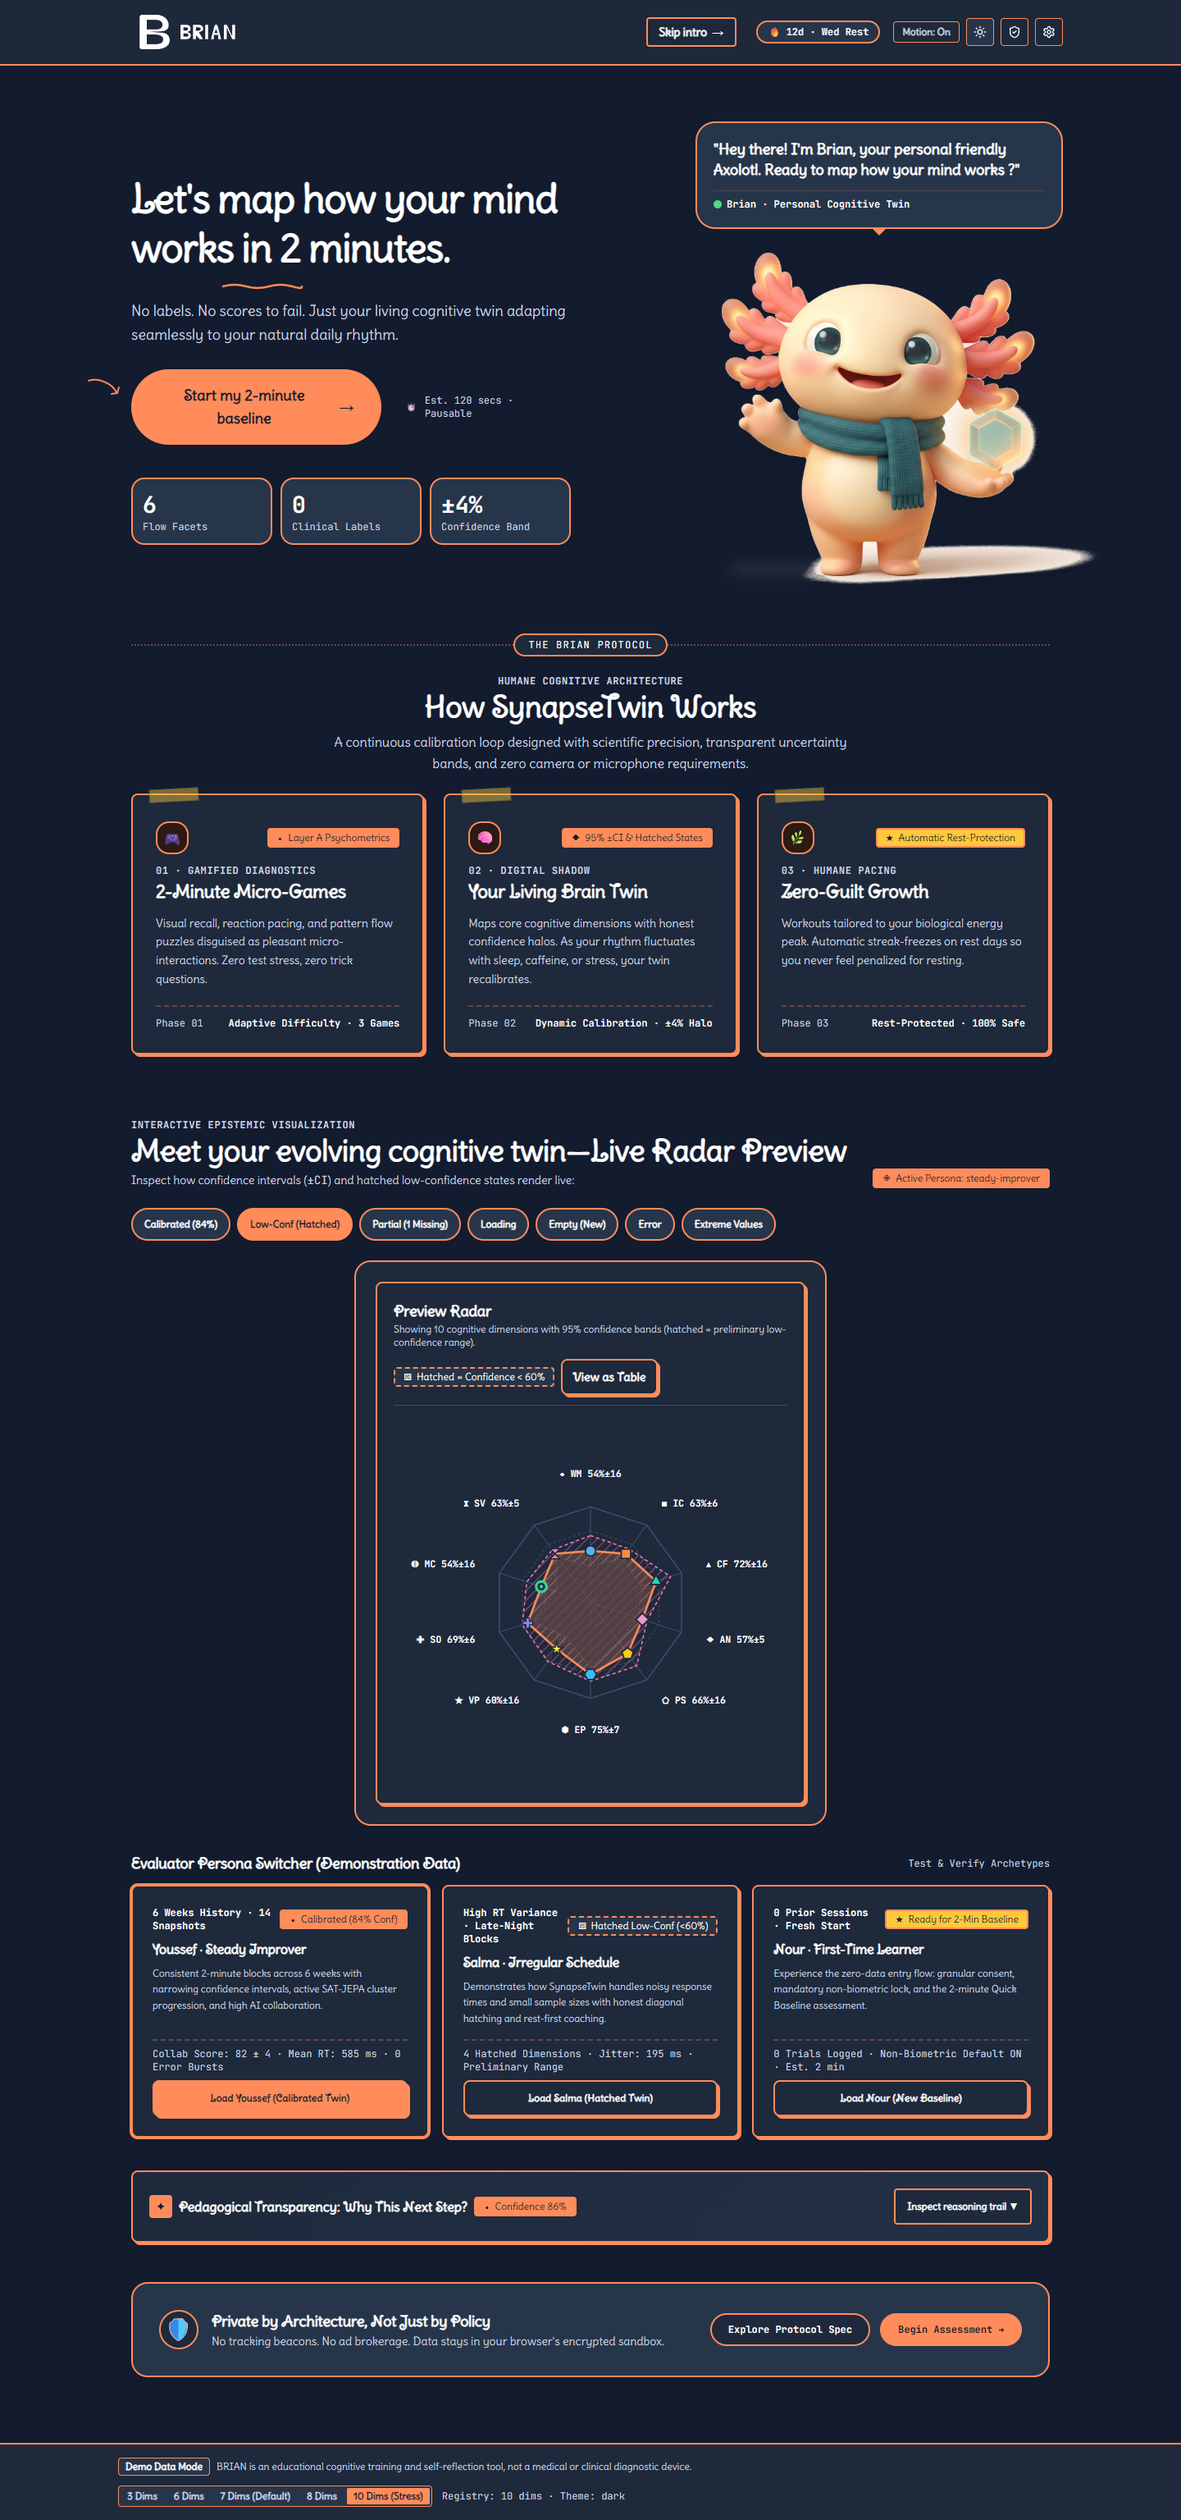
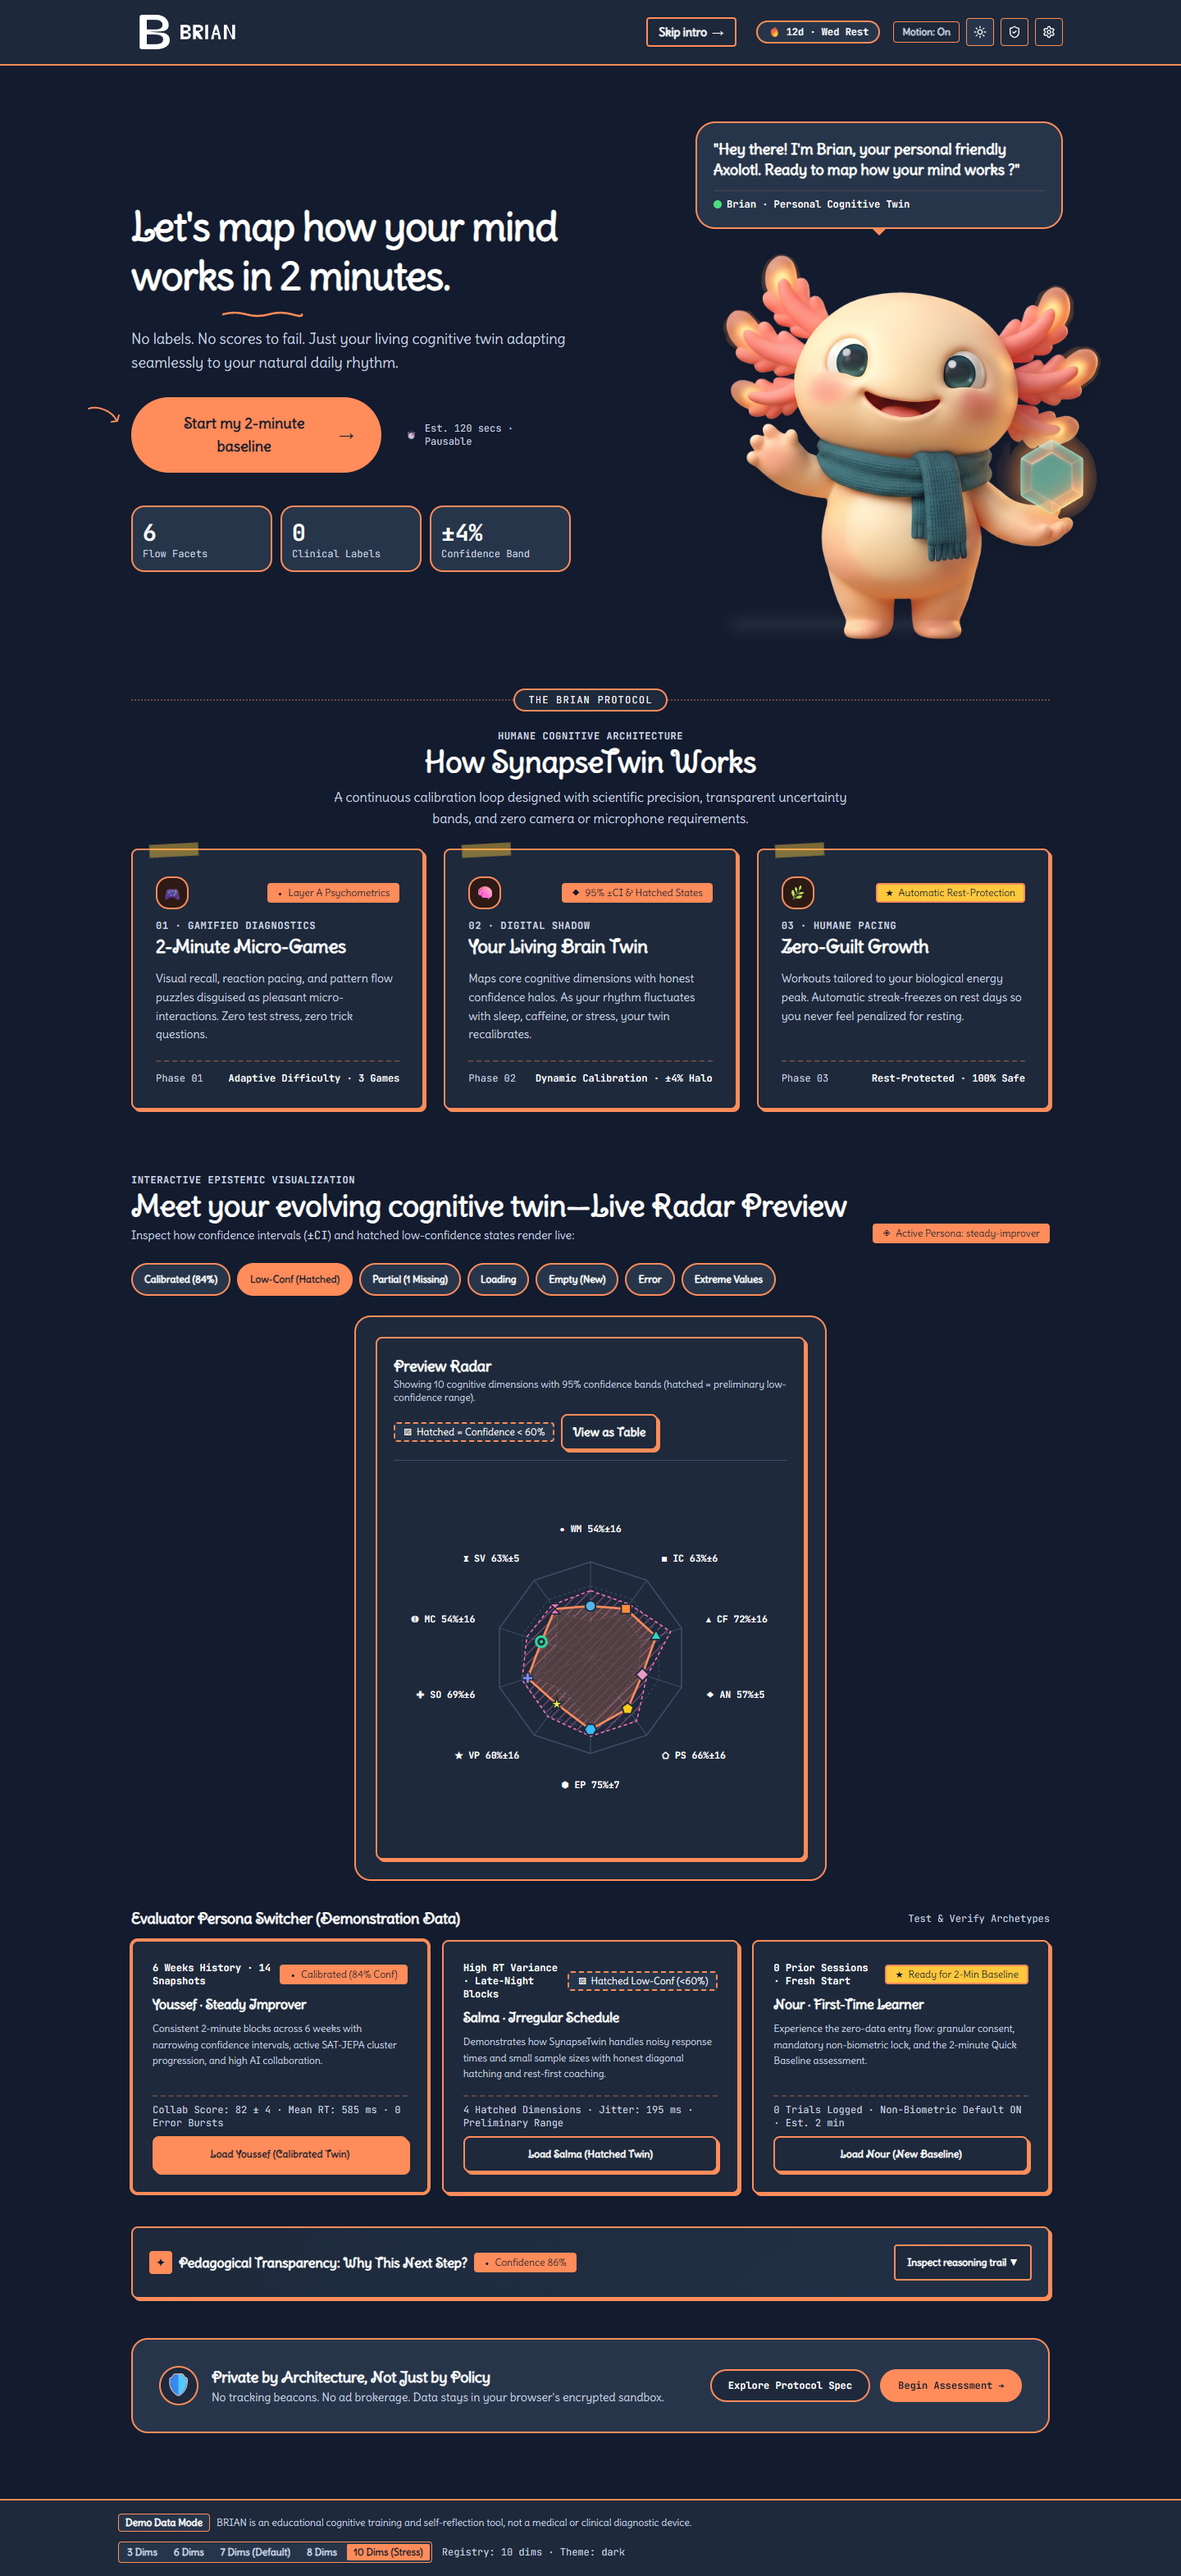
feat(mascot): switch to brian-waving-darkmode.png in dark mode across hero and mascot components

diff --git a/frontend/src/components/brand/BrianMascot.tsx b/frontend/src/components/brand/BrianMascot.tsx
@@ -1,4 +1,5 @@
 import React from 'react'
+import { useAppStore } from '../../store/useAppStore'
 
 export type BrianPose =
   | 'waving'
@@ -60,6 +61,12 @@ const POSE_IMAGE_MAP: Record<string, string> = {
   curious: '/mascot/brian-explorer.png',
 }
 
+const POSE_IMAGE_MAP_DARK: Record<string, string> = {
+  waving: '/mascot/brian-waving-darkmode.png',
+  hello: '/mascot/brian-waving-darkmode.png',
+  idle: '/mascot/brian-waving-darkmode.png',
+}
+
 const POSE_ALT_MAP: Record<string, string> = {
   waving: 'Cute friendly pink and sky-blue axolotl mascot named Brian waving cheerfully with one fin hand',
   celebrating: 'Cute ecstatic celebratory axolotl mascot named Brian jumping for joy with floating confetti and victory celebration',
@@ -100,8 +107,13 @@ export const BrianMascot: React.FC<BrianMascotProps> = ({
   alt,
   onClick,
 }) => {
+  const { theme } = useAppStore()
   const normalizedPose = POSE_IMAGE_MAP[pose] ? pose : 'waving'
-  const imageSrc = POSE_IMAGE_MAP[normalizedPose] || '/mascot/brian-waving.png'
+  const isDark = theme === 'dark'
+  const imageSrc =
+    isDark && POSE_IMAGE_MAP_DARK[normalizedPose]
+      ? POSE_IMAGE_MAP_DARK[normalizedPose]
+      : POSE_IMAGE_MAP[normalizedPose] || (isDark ? '/mascot/brian-waving-darkmode.png' : '/mascot/brian-waving.png')
   const altText = alt || POSE_ALT_MAP[normalizedPose] || 'Brian the Axolotl mascot'
   const effectiveSize = scale ?? size ?? 'md'
   const pixelSize = typeof effectiveSize === 'number' ? effectiveSize : SIZE_MAP[effectiveSize] || 96

diff --git a/frontend/src/pages/WelcomePage.tsx b/frontend/src/pages/WelcomePage.tsx
@@ -13,6 +13,7 @@ import { Button } from '../components/ui/Button'
 import { Card } from '../components/ui/Card'
 import { DoodleSquiggle, DoodleArrow } from '../components/ui/DoodleDecorations'
 import brianWavingImg from '../assets/mascot/brian-waving.png'
+import brianWavingDarkModeImg from '../assets/mascot/brian-waving-darkmode.png'
 
 type HeroPreviewState =
   | 'calibrated'
@@ -123,6 +124,7 @@ export default function WelcomePage() {
     dimensionPreset,
     activePersona,
     setActivePersona,
+    theme,
   } = useAppStore()
 
   const [previewState, setPreviewState] = useState<HeroPreviewState>('calibrated')
@@ -285,7 +287,7 @@ export default function WelcomePage() {
 
               {/* Scaled-Up Mascot directly on canvas */}
               <img
-                src={brianWavingImg}
+                src={theme === 'dark' ? brianWavingDarkModeImg : brianWavingImg}
                 alt="Brian the Axolotl mascot waving cheerfully"
                 style={{ transform: 'translate(100px, 25px)' }}
                 className="w-full max-w-[360px] sm:max-w-[420px] lg:max-w-[480px] h-auto object-contain drop-shadow-xl select-none transition-transform duration-300 hover:scale-105"

diff --git a/frontend/src/components/signature/NodiCompanion.tsx b/frontend/src/components/signature/NodiCompanion.tsx
@@ -121,7 +121,8 @@ export function NodiCompanion({
   ariaHidden = false,
   showSpeechBubble = true,
 }: NodiCompanionProps) {
-  const { reducedMotion } = useAppStore()
+  const { reducedMotion, theme } = useAppStore()
+  const isDark = theme === 'dark'
 
   if (state === 'hidden') {
     return (
@@ -193,9 +194,12 @@ export function NodiCompanion({
           aria-hidden="true"
         />
 
-        {/* Mascot Image with accessible role & label */}
         <img
-          src={spec.imageSrc || '/mascot/brian-waving.png'}
+          src={
+            isDark && (spec.imageSrc === '/mascot/brian-waving.png' || !spec.imageSrc)
+              ? '/mascot/brian-waving-darkmode.png'
+              : spec.imageSrc || '/mascot/brian-waving.png'
+          }
           alt={spec.ariaDescription}
           role={ariaHidden ? undefined : 'img'}
           aria-label={ariaHidden ? undefined : spec.ariaDescription}
